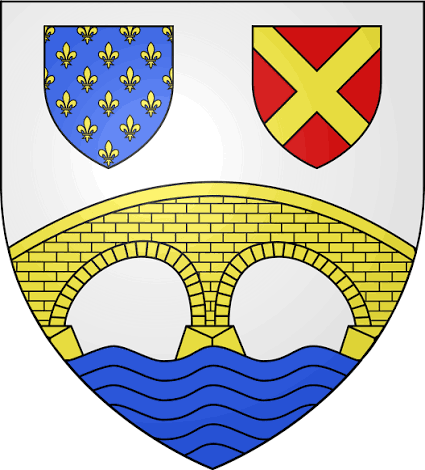
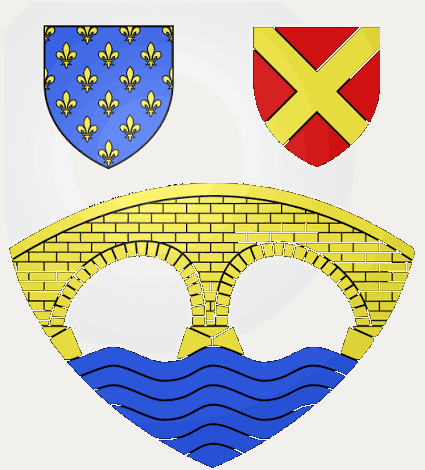
fix img

diff --git a/Actualite.html b/Actualite.html
@@ -62,19 +62,22 @@
 
       <!-- ---------- Les trois communes ----------
            Emblèmes Auvers-sur-Oise, Méry-sur-Oise et Mériel, dans l'ordre
-           du bas de page. Les trois fichiers ont été fournis par le club ;
-           ils sont de formats différents (217×220, 253×227, 178×204), d'où
-           le `object-fit: contain` : aucune déformation, aucun rognage.
-           L'ordre des noms de fichier diffère de celui de la liste. -->
+           du bas de page. Le fond de chaque fichier a été passé en #f2f0ec,
+           exactement la valeur de `--cream` sur laquelle `.page-head` est
+           peint : ils se posent donc dessus sans rectangle visible.
+           Les formats diffèrent (425×470, 217×233, 192×192) — d'où le
+           `object-fit: contain`, qui évite de rogner le blason de Mériel.
+           `width`/`height` reprennent la taille réelle de chaque fichier ;
+           les mettre à jour évite un saut de mise en page au chargement. -->
       <ul class="communes">
         <li class="commune">
-          <img class="commune__embleme" src="assets/img/emblemeauvers.png" alt="Blason d'Auvers-sur-Oise" width="217" height="220">
+          <img class="commune__embleme" src="assets/img/emblemeauvers.png" alt="Blason d'Auvers-sur-Oise" width="425" height="470">
         </li>
         <li class="commune">
-          <img class="commune__embleme" src="assets/img/Emblememery.png" alt="Blason de Méry-sur-Oise" width="253" height="227">
+          <img class="commune__embleme" src="assets/img/Emblememery.png" alt="Blason de Méry-sur-Oise" width="217" height="233">
         </li>
         <li class="commune">
-          <img class="commune__embleme" src="assets/img/emblememeriel.png" alt="Blason de Mériel" width="178" height="204">
+          <img class="commune__embleme" src="assets/img/emblememeriel.png" alt="Blason de Mériel" width="192" height="192">
         </li>
       </ul>
       <p class="communes__note">Un club, trois communes du Val-d'Oise.</p>

diff --git a/assets/css/style.css b/assets/css/style.css
@@ -1893,12 +1893,14 @@ a:hover .arrow,
 }
 
 /* ---------- Les trois communes ----------
-   Blasons poses sous le titre de page. Le fond beige d'origine a ete remplace
-   par du blanc dans les trois fichiers : ils se posent donc directement sur la
-   bande creme, sans cadre ni carte. C'est ce qui autorise `object-fit: contain`
-   sans rogner : `cover` couperait le blason de Meriel, le plus haut des trois
-   (178x204 contre 253x227). Les trois formats etant differents, `contain` les
-   fait tenir dans un cadre commun sans les deformer.
+   Blasons poses sous le titre de page. Le fond de chaque PNG a ete mis a
+   #f2f0ec, valeur de `--cream` sur laquelle `.page-head` est peint : ils se
+   posent donc dessus sans rectangle visible. (Si `--cream` change un jour, il
+   faut refaire les images — la couleur est cuite dedans, pas stylée en CSS.)
+
+   Les formats etant differents (425x470, 217x233, 192x192), `object-fit:
+   contain` les fait tenir dans un cadre commun sans les deformer ni les
+   rogner ; `cover` couperait le blason de Meriel, le plus haut des trois.
 
    Le rang est centre sur la largeur de .page-head__inner (880 px) et non sur
    le `wrap` de 1180 px, pour partager l'axe du titre et du chapo. */

diff --git a/README.md b/README.md
@@ -366,28 +366,31 @@ transmet : `actu-inscriptions.jpg`, `actu-aides.jpg`, `actu-amazones.jpg`,
 
 **Blasons des trois communes.** Le bandeau de titre (`.page-head`) porte les
 emblèmes d'Auvers-sur-Oise, Méry-sur-Oise et Mériel, dans l'ordre du pied de
-page. **Le fond beige d'origine (`#DAB86A`) a été remplacé par du blanc dans
-les trois fichiers**, ce qui permet de les poser sans cadre ni carte. Les
-originaux sont archivés dans `.tmp/emblemes-origine/` si le club veut les
-reprendre.
+page. **Le fond de chaque PNG a été passé en `#f2f0ec`**, exactement la valeur de
+`--cream` sur laquelle `.page-head` est peint : les trois se posent dessus sans
+rectangle visible.
 
-Le nettoyage n'est pas un remplacement global de couleur : dans l'emblème de
-Méry, le `#D9B769` du « M » n'est qu'à **4 unités** du fond, une substitution
-par tolérance l'aurait rongé. Seuls les pixels **connectés au bord** ont donc été
-blanchis, puis un liseré d'antircrénelage a été nettoyé en ne touchant que les
-pixels beiges **adjacents à une zone déjà blanche** — l'intérieur des écussons
-et des lettres, entouré de dessin, n'est jamais adjacent au blanc et reste donc
-intact. Les trois blasons ont été vérifiés pixel par pixel après traitement :
-0 tache résiduelle sur Méry et Mériel, 3 pixels légitimes dans le lettrage doré
-d'Auvers.
+⚠ **La couleur est cuite dans les images.** Si `--cream` change un jour, il faut
+refaire les trois PNG — le CSS ne peut plus les corriger. C'est le prix d'un fond
+opaque ; mieux aurait été de les enregistrer en PNG transparent, qui se
+compatteraient avec n'importe quel fond.
 
-Ils sont posés en `flex` et centrés (`justify-content: center`) sur la largeur de
-`.page-head__inner` (880 px), donc sur le même axe que le titre et le chapô.
-`align-items: flex-end` aligne leurs pieds : les trois hauteurs diffèrent
-(204, 220 et 227 px) et un alignement par le haut laisserait des blancs
-irréguliers. La classe est `.commune__embleme`, **sans accent**, comme
-`.membre__photo--<nom>` ; le nom de fichier `Emblememery.png` conserve en
-revanche sa majuscule, il est fourni tel quel.
+Trois passes ont été nécessaires sur ces fichiers, chacune avec sa raison :
+
+| Passe | Ce qu'elle traite |
+| --- | --- |
+| Blanc → crème, par diffusion depuis les bords | Le fond uni d'origine. Seul le fond **connecté au bord** est remplacé : l'intérieur des écussons, entouré de dessin, n'est jamais touché. |
+| Aplatissement du dégradé | Le fond d'Auvers n'est pas un aplat mais un dégradé gris clair (`#ECECEC` → `#F4F4F4`), à 31 unités du blanc mais 6 unités du crème — la première passe ne l'attrapait pas. |
+| Nettoyage des artefacts de bord | La source d'Aversions portait un cadre résiduel d'export : une bande verticale sombre à gauche et un trait noir en haut (29 051 px). Visibles une fois le fond crème en place. |
+
+Le retrait des artefacts ne prend que des pixels **peu saturés qui touchent le
+bord**. Le dessin, très saturé (écart R-B > 160 sur le bleu, le rouge, l'or) et
+entouré de crème, est intouchable. Les `width`/`height` du HTML suivent les
+formats réels (425×470, 217×233, 192×192) : les fichiers ayant été remplacés,
+elles étaient périmées et provoquaient un saut de mise en page.
+
+Les originaux sont archivés dans `.tmp/emblemes-origine/` (avant tout traitement)
+et `.tmp/emblemes-blanc/` (versions à fond blanc fournies le jour même).
 
 **Contenu.** Tout est repris de ce qui est déjà attesté ailleurs sur le site ou
 dans le PDF du club (page « club », section « VIE ASSOCIATIVE ») : Méry'Plouz,
